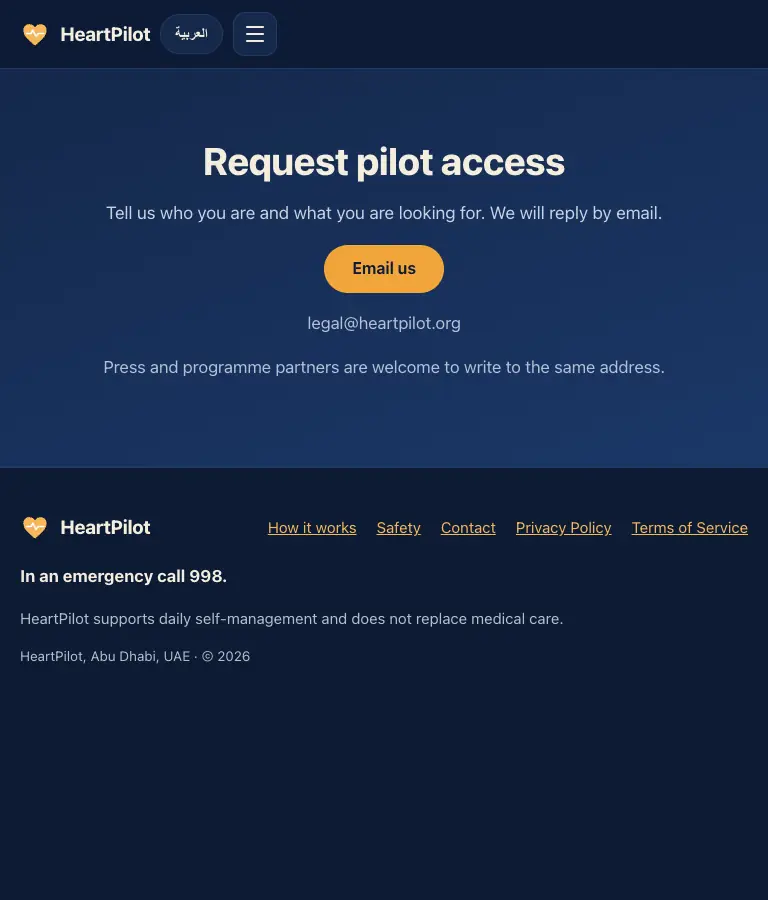
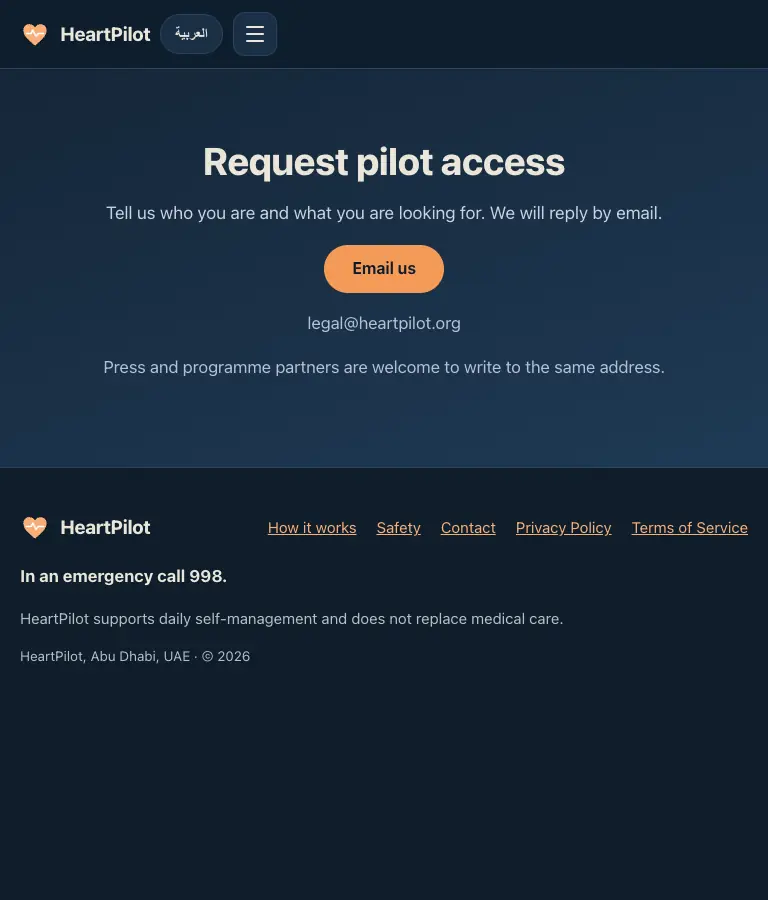
Use the supplied palette (ink blue, oat ivory, amber orange); document why Thmanyah is not hosted

diff --git a/assets/css/styles.css b/assets/css/styles.css
@@ -4,17 +4,17 @@
 @font-face{font-family:"Plex Arabic";font-weight:600;font-display:swap;src:url(/assets/fonts/plex-arabic-600.woff2) format("woff2");unicode-range:U+0600-06FF,U+0750-077F,U+FB50-FDFF,U+FE70-FEFF,U+200C-200F}
 :root{
   /* ink blue main, oat ivory secondary, amber orange accent (used last, sparingly) */
-  --bg:#F4EDDD;--surface:#FBF7EE;--ink:#14284B;--muted:#4A5873;--line:#DDD2B9;--alt:#EBE2CD;
-  --accent:#EE9B26;--accent-ink:#14284B;--accent-text:#9A5500;--navy:#14284B;--on-navy:#F4EDDD;
+  --bg:#E9E5D8;--surface:#F5F2E9;--ink:#152638;--muted:#47546A;--line:#D2CDBA;--alt:#DFDACA;
+  --accent:#F18D46;--accent-ink:#152638;--accent-text:#A04E0C;--navy:#152638;--on-navy:#E9E5D8;
   --g:#2F8F6B;--a:#C98A1B;--r:#C8344C;
-  --shadow:0 1px 2px rgba(20,40,75,.06),0 12px 32px rgba(20,40,75,.09);
+  --shadow:0 1px 2px rgba(21,38,56,.06),0 12px 32px rgba(21,38,56,.09);
   --font:-apple-system,BlinkMacSystemFont,"Segoe UI",Roboto,"Helvetica Neue",Arial,sans-serif;
-  --font-ar:"Thmanyah Sans","Thmanyah","Plex Arabic",var(--font);
+  --font-ar:"Plex Arabic",var(--font);
   --radius:20px;
 }
 @media (prefers-color-scheme:dark){:root{
-  --bg:#0D1B33;--surface:#15294A;--ink:#F4EDDD;--muted:#B5BCCB;--line:#243B63;--alt:#10223F;
-  --accent:#F2A53A;--accent-ink:#0D1B33;--accent-text:#F5B65A;--navy:#F4EDDD;--on-navy:#0D1B33;
+  --bg:#0F1D2B;--surface:#1A2F45;--ink:#E9E5D8;--muted:#B6BDC4;--line:#2A435C;--alt:#132436;
+  --accent:#F59A57;--accent-ink:#0F1D2B;--accent-text:#F7AE76;--navy:#E9E5D8;--on-navy:#0F1D2B;
   --shadow:0 1px 2px rgba(0,0,0,.4),0 16px 40px rgba(0,0,0,.35);
 }}
 *,*::before,*::after{box-sizing:border-box}
@@ -39,7 +39,7 @@ p{margin:0 0 1em}
 .skip:focus{top:12px}
 /* buttons */
 .btn{display:inline-flex;align-items:center;justify-content:center;gap:8px;min-height:48px;padding:0 26px;border-radius:999px;background:var(--accent);color:var(--accent-ink);font-weight:650;font-size:1rem;text-decoration:none;border:2px solid var(--accent);cursor:pointer;transition:transform .2s,box-shadow .2s,background .2s}
-.btn:hover{transform:translateY(-2px);box-shadow:0 10px 24px rgba(238,155,38,.35)}
+.btn:hover{transform:translateY(-2px);box-shadow:0 10px 24px rgba(241,141,70,.35)}
 .btn-ghost{background:transparent;color:var(--ink);border-color:var(--line)}
 .btn-ghost:hover{border-color:var(--ink);box-shadow:none}
 .btn-sm{min-height:40px;padding:0 18px;font-size:.92rem;white-space:nowrap}
@@ -66,10 +66,10 @@ p{margin:0 0 1em}
   .bar{gap:10px}.tools{margin-inline-start:auto}
 }
 /* hero */
-.hero{padding:clamp(36px,7vw,88px) 0 clamp(40px,7vw,96px);color:#F4EDDD;background:radial-gradient(900px 480px at 85% -10%,rgba(238,155,38,.22),transparent 70%),linear-gradient(165deg,#14284B 0%,#1B3868 100%)}
-.hero h1{color:#F4EDDD}.hero .lead{color:#C9D1E0}.hero .note{color:#B5BFD3}
-.hero .btn-ghost{color:#F4EDDD;border-color:rgba(244,237,221,.35)}.hero .btn-ghost:hover{border-color:#F4EDDD}
-.hero .pill{background:rgba(244,237,221,.1);color:#F4EDDD;border-color:rgba(244,237,221,.25);box-shadow:none}
+.hero{padding:clamp(36px,7vw,88px) 0 clamp(40px,7vw,96px);color:#E9E5D8;background:radial-gradient(900px 480px at 85% -10%,rgba(241,141,70,.22),transparent 70%),linear-gradient(165deg,#152638 0%,#1F3A55 100%)}
+.hero h1{color:#E9E5D8}.hero .lead{color:#C9D1E0}.hero .note{color:#B5BFD3}
+.hero .btn-ghost{color:#E9E5D8;border-color:rgba(233,229,216,.35)}.hero .btn-ghost:hover{border-color:#E9E5D8}
+.hero .pill{background:rgba(233,229,216,.1);color:#E9E5D8;border-color:rgba(233,229,216,.25);box-shadow:none}
 .hero-grid{display:grid;grid-template-columns:1.1fr .9fr;gap:48px;align-items:center}
 .pill{display:inline-flex;align-items:center;gap:10px;padding:8px 16px;border-radius:999px;background:var(--surface);border:1px solid var(--line);font-size:.9rem;font-weight:600;color:var(--ink);margin:0 0 22px;box-shadow:var(--shadow)}
 .dot{width:9px;height:9px;border-radius:50%;background:var(--a);flex:none}
@@ -125,9 +125,9 @@ section{padding:clamp(56px,9vw,104px) 0}
 .road{display:grid;grid-template-columns:1fr 1fr;gap:20px}
 .road .card{border-style:dashed}
 .links{display:flex;flex-wrap:wrap;gap:12px;justify-content:center}
-.contact,.cta-band{background:linear-gradient(160deg,#14284B,#1B3868);color:#F4EDDD}
-.contact h1,.contact h2,.cta-band h2{color:#F4EDDD}.contact .lead,.cta-band .lead{color:#C9D1E0}.contact .muted{color:#B5BFD3}
-.contact a:not(.btn){color:#F4EDDD}
+.contact,.cta-band{background:linear-gradient(160deg,#152638,#1F3A55);color:#E9E5D8}
+.contact h1,.contact h2,.cta-band h2{color:#E9E5D8}.contact .lead,.cta-band .lead{color:#C9D1E0}.contact .muted{color:#B5BFD3}
+.contact a:not(.btn){color:#E9E5D8}
 .cta-band{padding:clamp(48px,7vw,80px) 0}
 /* footer */
 .site-footer{padding:44px 0 56px;border-block-start:1px solid var(--line);font-size:.95rem;color:var(--muted)}

diff --git a/index.html b/index.html
@@ -5,8 +5,8 @@
 <meta name="viewport" content="width=device-width, initial-scale=1">
 <title>HeartPilot: heart failure care that goes home with the patient</title>
 <meta name="description" content="HeartPilot is a bilingual daily check-in app for people with heart failure. It tells patients what to do and alerts a family caregiver when it matters. In pilot preparation.">
-<meta name="theme-color" content="#F6F8FB" media="(prefers-color-scheme: light)">
-<meta name="theme-color" content="#0A1726" media="(prefers-color-scheme: dark)">
+<meta name="theme-color" content="#E9E5D8" media="(prefers-color-scheme: light)">
+<meta name="theme-color" content="#0F1D2B" media="(prefers-color-scheme: dark)">
 <link rel="canonical" href="https://heartpilot.org/">
 <link rel="icon" type="image/png" sizes="32x32" href="/assets/favicon-32.png">
 <link rel="apple-touch-icon" href="/assets/apple-touch-icon.png">

diff --git a/features.html b/features.html
@@ -5,8 +5,8 @@
 <meta name="viewport" content="width=device-width, initial-scale=1">
 <title>Features | HeartPilot</title>
 <meta name="description" content="Medication tracking, red flag guidance, caregiver alerts, reminders, a wellbeing check, an education library and Apple Health, in English and Arabic.">
-<meta name="theme-color" content="#F6F8FB" media="(prefers-color-scheme: light)">
-<meta name="theme-color" content="#0A1726" media="(prefers-color-scheme: dark)">
+<meta name="theme-color" content="#E9E5D8" media="(prefers-color-scheme: light)">
+<meta name="theme-color" content="#0F1D2B" media="(prefers-color-scheme: dark)">
 <link rel="canonical" href="https://heartpilot.org/features.html">
 <link rel="icon" type="image/png" sizes="32x32" href="/assets/favicon-32.png">
 <link rel="apple-touch-icon" href="/assets/apple-touch-icon.png">

diff --git a/safety.html b/safety.html
@@ -5,8 +5,8 @@
 <meta name="viewport" content="width=device-width, initial-scale=1">
 <title>Safety and clinical oversight | HeartPilot</title>
 <meta name="description" content="Clinical content reviewed by a cardiologist, account deletion in the app, and data handled under our published Privacy Policy.">
-<meta name="theme-color" content="#F6F8FB" media="(prefers-color-scheme: light)">
-<meta name="theme-color" content="#0A1726" media="(prefers-color-scheme: dark)">
+<meta name="theme-color" content="#E9E5D8" media="(prefers-color-scheme: light)">
+<meta name="theme-color" content="#0F1D2B" media="(prefers-color-scheme: dark)">
 <link rel="canonical" href="https://heartpilot.org/safety.html">
 <link rel="icon" type="image/png" sizes="32x32" href="/assets/favicon-32.png">
 <link rel="apple-touch-icon" href="/assets/apple-touch-icon.png">

diff --git a/how-it-works.html b/how-it-works.html
@@ -5,8 +5,8 @@
 <meta name="viewport" content="width=device-width, initial-scale=1">
 <title>How it works | HeartPilot</title>
 <meta name="description" content="Three simple steps every day: a daily check-in, clear guidance, and an alert to a family caregiver when it matters.">
-<meta name="theme-color" content="#F6F8FB" media="(prefers-color-scheme: light)">
-<meta name="theme-color" content="#0A1726" media="(prefers-color-scheme: dark)">
+<meta name="theme-color" content="#E9E5D8" media="(prefers-color-scheme: light)">
+<meta name="theme-color" content="#0F1D2B" media="(prefers-color-scheme: dark)">
 <link rel="canonical" href="https://heartpilot.org/how-it-works.html">
 <link rel="icon" type="image/png" sizes="32x32" href="/assets/favicon-32.png">
 <link rel="apple-touch-icon" href="/assets/apple-touch-icon.png">

diff --git a/clinics.html b/clinics.html
@@ -5,8 +5,8 @@
 <meta name="viewport" content="width=device-width, initial-scale=1">
 <title>For clinics and hospitals | HeartPilot</title>
 <meta name="description" content="We are preparing a HeartPilot pilot programme and would like to talk to heart failure teams.">
-<meta name="theme-color" content="#F6F8FB" media="(prefers-color-scheme: light)">
-<meta name="theme-color" content="#0A1726" media="(prefers-color-scheme: dark)">
+<meta name="theme-color" content="#E9E5D8" media="(prefers-color-scheme: light)">
+<meta name="theme-color" content="#0F1D2B" media="(prefers-color-scheme: dark)">
 <link rel="canonical" href="https://heartpilot.org/clinics.html">
 <link rel="icon" type="image/png" sizes="32x32" href="/assets/favicon-32.png">
 <link rel="apple-touch-icon" href="/assets/apple-touch-icon.png">

diff --git a/contact.html b/contact.html
@@ -5,8 +5,8 @@
 <meta name="viewport" content="width=device-width, initial-scale=1">
 <title>Contact and pilot access | HeartPilot</title>
 <meta name="description" content="Request pilot access to HeartPilot by email. Press and programme partners are welcome too.">
-<meta name="theme-color" content="#F6F8FB" media="(prefers-color-scheme: light)">
-<meta name="theme-color" content="#0A1726" media="(prefers-color-scheme: dark)">
+<meta name="theme-color" content="#E9E5D8" media="(prefers-color-scheme: light)">
+<meta name="theme-color" content="#0F1D2B" media="(prefers-color-scheme: dark)">
 <link rel="canonical" href="https://heartpilot.org/contact.html">
 <link rel="icon" type="image/png" sizes="32x32" href="/assets/favicon-32.png">
 <link rel="apple-touch-icon" href="/assets/apple-touch-icon.png">

diff --git a/caregivers.html b/caregivers.html
@@ -5,8 +5,8 @@
 <meta name="viewport" content="width=device-width, initial-scale=1">
 <title>For caregivers | HeartPilot</title>
 <meta name="description" content="Peace of mind for the family. What a HeartPilot caregiver sees, and what they do not.">
-<meta name="theme-color" content="#F6F8FB" media="(prefers-color-scheme: light)">
-<meta name="theme-color" content="#0A1726" media="(prefers-color-scheme: dark)">
+<meta name="theme-color" content="#E9E5D8" media="(prefers-color-scheme: light)">
+<meta name="theme-color" content="#0F1D2B" media="(prefers-color-scheme: dark)">
 <link rel="canonical" href="https://heartpilot.org/caregivers.html">
 <link rel="icon" type="image/png" sizes="32x32" href="/assets/favicon-32.png">
 <link rel="apple-touch-icon" href="/assets/apple-touch-icon.png">

diff --git a/roadmap.html b/roadmap.html
@@ -5,8 +5,8 @@
 <meta name="viewport" content="width=device-width, initial-scale=1">
 <title>Roadmap | HeartPilot</title>
 <meta name="description" content="What is coming next for HeartPilot. These are in planning and are not in the app today.">
-<meta name="theme-color" content="#F6F8FB" media="(prefers-color-scheme: light)">
-<meta name="theme-color" content="#0A1726" media="(prefers-color-scheme: dark)">
+<meta name="theme-color" content="#E9E5D8" media="(prefers-color-scheme: light)">
+<meta name="theme-color" content="#0F1D2B" media="(prefers-color-scheme: dark)">
 <link rel="canonical" href="https://heartpilot.org/roadmap.html">
 <link rel="icon" type="image/png" sizes="32x32" href="/assets/favicon-32.png">
 <link rel="apple-touch-icon" href="/assets/apple-touch-icon.png">

diff --git a/404.html b/404.html
@@ -5,8 +5,8 @@
 <meta name="viewport" content="width=device-width, initial-scale=1">
 <title>Page not found | HeartPilot</title>
 <meta name="description" content="This page does not exist.">
-<meta name="theme-color" content="#F6F8FB" media="(prefers-color-scheme: light)">
-<meta name="theme-color" content="#0A1726" media="(prefers-color-scheme: dark)">
+<meta name="theme-color" content="#E9E5D8" media="(prefers-color-scheme: light)">
+<meta name="theme-color" content="#0F1D2B" media="(prefers-color-scheme: dark)">
 <link rel="canonical" href="https://heartpilot.org/404.html">
 <link rel="icon" type="image/png" sizes="32x32" href="/assets/favicon-32.png">
 <link rel="apple-touch-icon" href="/assets/apple-touch-icon.png">

diff --git a/README.md b/README.md
@@ -23,14 +23,18 @@ scripts, fonts, analytics, trackers or cookies.
 
 ## Colours and fonts
 
-Ink blue `#14284B` (main), oat ivory `#F4EDDD` (secondary), amber orange `#EE9B26`
+Ink blue `#152638` (main), oat ivory `#E9E5D8` (secondary), amber orange `#F18D46`
 (accent, used last and sparingly). All are CSS variables at the top of
 `assets/css/styles.css`, with a dark-mode set under `prefers-color-scheme`.
 
-Arabic text asks for **Thmanyah** first (`--font-ar`), then IBM Plex Sans Arabic.
-Thmanyah files are **not** in this repo: its licence, as published, does not allow
-re-hosting or converting the font files. Until that is resolved, visitors see the
-Plex fallback unless Thmanyah happens to be installed on their device.
+Arabic uses IBM Plex Sans Arabic (self-hosted, SIL OFL). English uses system fonts.
+
+**Thmanyah is deliberately not used.** Its licence (thmanyah's Font License, 2026)
+forbids hosting the font files on any website and forbids web embedding except
+inside a compiled, packaged or obfuscated product, and it forbids modifying or
+converting the files. A public static site would serve the files as downloads.
+Do not add them here. If Thmanyah grants a written exception (ask@thmanyah.com),
+add `@font-face` rules and put the family first in `--font-ar`.
 
 ## Editing copy
 
